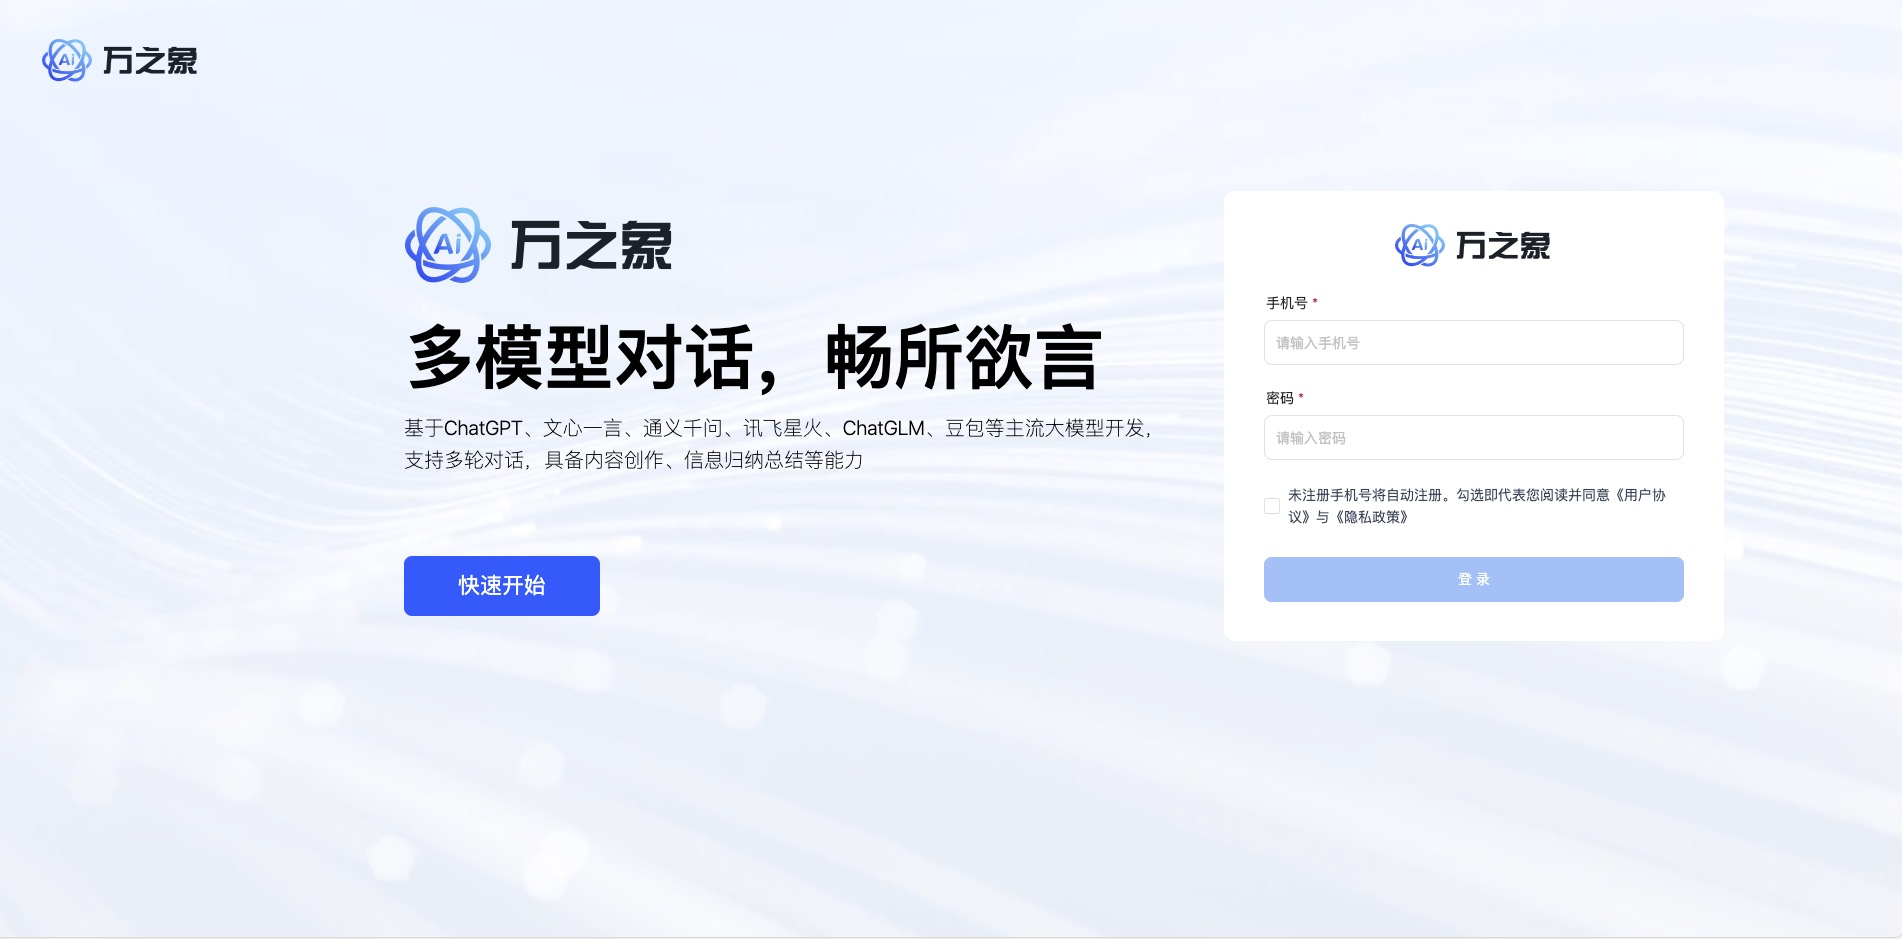
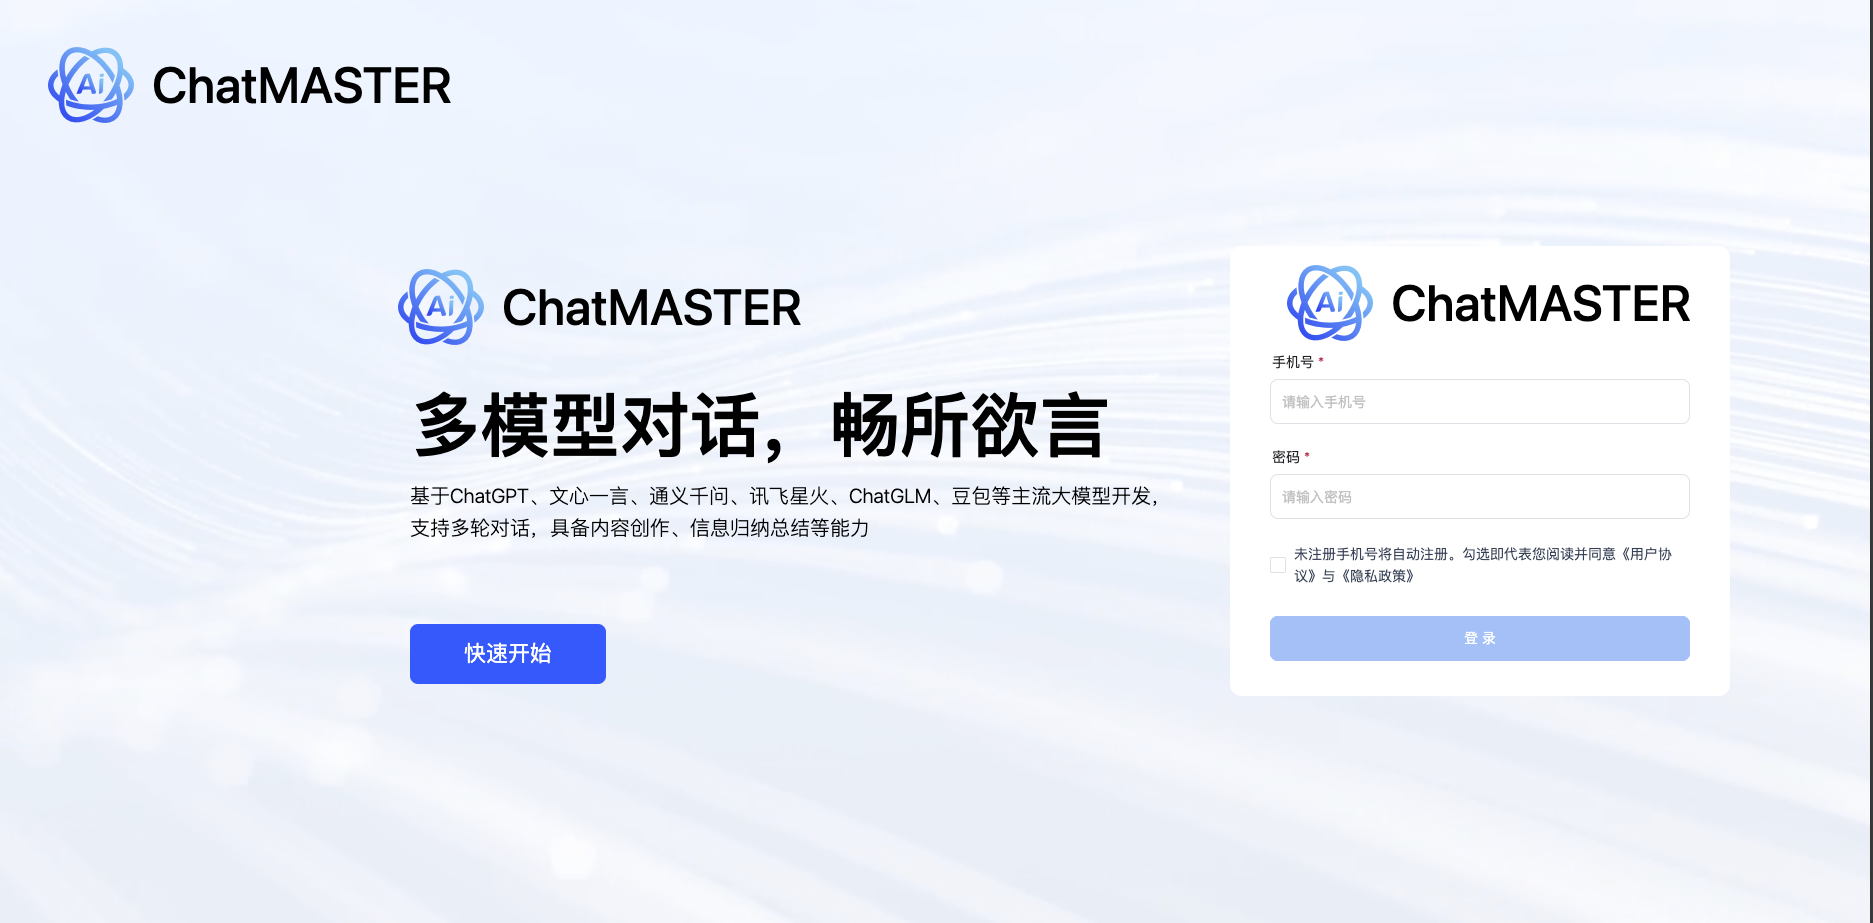
[feat] 移动端兼容，增加演示地址

diff --git a/src/main/java/com/master/chat/controller/app/AppApiController.java b/src/main/java/com/master/chat/controller/app/AppApiController.java
@@ -4,17 +4,6 @@ import com.master.chat.comm.constant.RedisConstants;
 import com.master.chat.comm.constant.SmsConstant;
 import com.master.chat.comm.util.AliyunSMSUtil;
 import com.master.chat.comm.util.RedisUtils;
-import com.master.chat.gpt.constant.BaseConfigConstant;
-import com.master.chat.gpt.pojo.command.GptCommand;
-import com.master.chat.gpt.pojo.vo.AgreementVO;
-import com.master.chat.gpt.pojo.vo.AppConfigVO;
-import com.master.chat.gpt.pojo.vo.AssistantVO;
-import com.master.chat.gpt.service.*;
-import com.master.chat.sys.pojo.dto.config.AppInfoDTO;
-import com.master.chat.sys.pojo.dto.config.BaseInfoDTO;
-import com.master.chat.sys.pojo.dto.config.ExtraInfoDTO;
-import com.master.chat.sys.pojo.dto.config.WxInfoDTO;
-import com.master.chat.sys.service.IBaseConfigService;
 import com.master.chat.common.api.Query;
 import com.master.chat.common.api.ResponseInfo;
 import com.master.chat.common.enums.IntEnum;
@@ -22,6 +11,15 @@ import com.master.chat.common.enums.ResponseEnum;
 import com.master.chat.common.enums.StatusEnum;
 import com.master.chat.common.utils.RandomUtil;
 import com.master.chat.common.validator.ValidatorUtil;
+import com.master.chat.common.validator.base.BaseAssert;
+import com.master.chat.gpt.constant.BaseConfigConstant;
+import com.master.chat.gpt.pojo.command.GptCommand;
+import com.master.chat.gpt.pojo.vo.AgreementVO;
+import com.master.chat.gpt.pojo.vo.AppConfigVO;
+import com.master.chat.gpt.service.*;
+import com.master.chat.sys.pojo.dto.config.AppInfoDTO;
+import com.master.chat.sys.pojo.dto.config.BaseInfoDTO;
+import com.master.chat.sys.service.IBaseConfigService;
 import org.springframework.beans.factory.annotation.Autowired;
 import org.springframework.web.bind.annotation.*;
 
@@ -91,18 +89,8 @@ public class AppApiController {
     @GetMapping("/home/config")
     public ResponseInfo getHomeConfig() {
         BaseInfoDTO baseInfo = baseConfigService.getBaseConfigByName(BaseConfigConstant.BASE_INFO, BaseInfoDTO.class);
-        WxInfoDTO wxInfo = baseConfigService.getBaseConfigByName(BaseConfigConstant.WX_INFO, WxInfoDTO.class);
         AppInfoDTO appInfo = baseConfigService.getBaseConfigByName(BaseConfigConstant.APP_INFO, AppInfoDTO.class);
-        ExtraInfoDTO extraInfo = baseConfigService.getBaseConfigByName(BaseConfigConstant.EXTRA_INFO, ExtraInfoDTO.class);
-        Query query = new Query();
-        query.put("status", StatusEnum.ENABLED.getValue());
-        List<AssistantVO> assistants = assistantService.listAssistant(query).getData();
-        AssistantVO assistant = assistants.stream().filter(v -> StatusEnum.ENABLED.getValue().equals(v.getMainModel())).findFirst().get();
-        AppConfigVO appConfig = AppConfigVO.builder()
-                .baseInfo(baseInfo).extraInfo(extraInfo)
-                .appInfo(appInfo).wxInfo(wxInfo)
-                .mainAssistant(assistant).assistants(assistants)
-                .build();
+        AppConfigVO appConfig = AppConfigVO.builder().baseInfo(baseInfo).appInfo(appInfo).build();
         return ResponseInfo.success(appConfig);
     }
 
@@ -119,22 +107,10 @@ public class AppApiController {
         query.put("type", type);
         query.put("status", StatusEnum.ENABLED.getValue());
         List<AgreementVO> contents = contentService.listContent(query).getData();
-        if (ValidatorUtil.isNull(contents)) {
+        if (ValidatorUtil.isNullIncludeArray(contents)) {
             return ResponseInfo.success();
         }
         return ResponseInfo.success(contents.get(0));
-    }
-
-    /**
-     * 获取内容详情
-     *
-     * @author: Yang
-     * @date: 2023/1/9
-     * @version: 1.0.0
-     */
-    @GetMapping("/content/detail/{id}")
-    public ResponseInfo getContent(@PathVariable("id") Long id) {
-        return contentService.getContentById(id);
     }
 
     /**
@@ -150,6 +126,18 @@ public class AppApiController {
         query.put("type", type);
         query.put("status", StatusEnum.ENABLED.getValue());
         return contentService.listContent(query);
+    }
+
+    /**
+     * 获取内容详情
+     *
+     * @author: Yang
+     * @date: 2023/1/9
+     * @version: 1.0.0
+     */
+    @GetMapping("/content/detail/{id}")
+    public ResponseInfo getContent(@PathVariable("id") Long id) {
+        return contentService.getContentById(id);
     }
 
     /**
@@ -188,10 +176,10 @@ public class AppApiController {
      * @version: 1.0.0
      */
     @GetMapping("/assistant/random")
-    public ResponseInfo listAssistant() {
+    public ResponseInfo listAssistant(@RequestParam(required = false) Map map) {
         Query query = new Query();
         query.put("status", StatusEnum.ENABLED.getValue());
-        query.put("size", 3);
+        query.put("size", ValidatorUtil.isNotNull(map.get("size")) ? BaseAssert.getParamInt(map, "size") : 3);
         return assistantService.listAssistantByApp(new Query(query));
     }
 

diff --git a/src/main/java/com/master/chat/gpt/service/impl/UserServiceImpl.java b/src/main/java/com/master/chat/gpt/service/impl/UserServiceImpl.java
@@ -1,12 +1,20 @@
 package com.master.chat.gpt.service.impl;
 
 import cn.hutool.core.lang.UUID;
-import com.alibaba.fastjson.JSONObject;
 import com.baomidou.mybatisplus.core.conditions.query.LambdaQueryWrapper;
 import com.baomidou.mybatisplus.core.metadata.IPage;
 import com.baomidou.mybatisplus.extension.plugins.pagination.Page;
 import com.baomidou.mybatisplus.extension.service.impl.ServiceImpl;
+import com.master.chat.common.api.IPageInfo;
+import com.master.chat.common.api.Query;
+import com.master.chat.common.api.ResponseInfo;
+import com.master.chat.common.enums.ResponseEnum;
+import com.master.chat.common.exception.ErrorException;
 import com.master.chat.common.exception.ProhibitVisitException;
+import com.master.chat.common.utils.CommonUtil;
+import com.master.chat.common.utils.DozerUtil;
+import com.master.chat.common.utils.RandomUtil;
+import com.master.chat.common.validator.ValidatorUtil;
 import com.master.chat.framework.security.JWTPasswordEncoder;
 import com.master.chat.gpt.constant.BaseConfigConstant;
 import com.master.chat.gpt.enums.UserTypeEnum;
@@ -14,19 +22,10 @@ import com.master.chat.gpt.mapper.UserMapper;
 import com.master.chat.gpt.pojo.command.UserCommand;
 import com.master.chat.gpt.pojo.entity.User;
 import com.master.chat.gpt.pojo.vo.UserVO;
-import com.master.chat.sys.pojo.dto.config.AppInfoDTO;
-import com.master.chat.sys.pojo.dto.config.BaseInfoDTO;
-import com.master.chat.sys.service.IBaseConfigService;
 import com.master.chat.gpt.service.IUserService;
 import com.master.chat.sys.pojo.command.SysUserPasswordCommand;
-import com.master.chat.common.api.IPageInfo;
-import com.master.chat.common.api.Query;
-import com.master.chat.common.api.ResponseInfo;
-import com.master.chat.common.enums.ResponseEnum;
-import com.master.chat.common.exception.ErrorException;
-import com.master.chat.common.utils.DozerUtil;
-import com.master.chat.common.utils.RandomUtil;
-import com.master.chat.common.validator.ValidatorUtil;
+import com.master.chat.sys.pojo.dto.config.AppInfoDTO;
+import com.master.chat.sys.service.IBaseConfigService;
 import org.springframework.beans.factory.annotation.Autowired;
 import org.springframework.stereotype.Service;
 import org.springframework.transaction.annotation.Transactional;
@@ -66,12 +65,15 @@ public class UserServiceImpl extends ServiceImpl<UserMapper, User> implements IU
     @Override
     public ResponseInfo<IPageInfo<UserVO>> pageUser(Query query) {
         IPage<UserVO> iPage = userMapper.pageUser(new Page<>(query.getCurrent(), query.getSize()), query);
+        iPage.getRecords().stream().forEach(v -> v.setTel(CommonUtil.mobileEncrypt(v.getTel())));
         return ResponseInfo.success(new IPageInfo(iPage.getCurrent(), iPage.getSize(), iPage.getTotal(), iPage.getRecords()));
     }
 
     @Override
     public ResponseInfo<List<UserVO>> listUser(Query query) {
-        return ResponseInfo.success(userMapper.listUser(query));
+        List<UserVO> userVOS = userMapper.listUser(query);
+        userVOS.stream().forEach(v -> v.setTel(CommonUtil.mobileEncrypt(v.getTel())));
+        return ResponseInfo.success(userVOS);
     }
 
     @Override

diff --git a/src/main/java/com/master/chat/sys/service/impl/ResourceServiceImpl.java b/src/main/java/com/master/chat/sys/service/impl/ResourceServiceImpl.java
@@ -3,16 +3,6 @@ package com.master.chat.sys.service.impl;
 import com.baomidou.mybatisplus.core.conditions.query.QueryWrapper;
 import com.baomidou.mybatisplus.extension.service.impl.ServiceImpl;
 import com.master.chat.comm.constant.ResourceConstants;
-import com.master.chat.sys.mapper.ResourceMapper;
-import com.master.chat.sys.mapper.RoleResourceMapper;
-import com.master.chat.sys.pojo.command.ResourceCommand;
-import com.master.chat.sys.pojo.dto.SysUserRolesDTO;
-import com.master.chat.sys.pojo.entity.Resource;
-import com.master.chat.sys.pojo.vo.MetaVO;
-import com.master.chat.sys.pojo.vo.ResourceVO;
-import com.master.chat.sys.pojo.vo.RouterVO;
-import com.master.chat.sys.service.IResourceService;
-import com.master.chat.sys.service.ISysUserRoleService;
 import com.master.chat.common.api.QueryDTO;
 import com.master.chat.common.api.ResponseInfo;
 import com.master.chat.common.constant.HttpConstant;
@@ -25,6 +15,16 @@ import com.master.chat.common.utils.DozerUtil;
 import com.master.chat.common.utils.StringUtil;
 import com.master.chat.common.utils.TreeUtil;
 import com.master.chat.common.validator.ValidatorUtil;
+import com.master.chat.sys.mapper.ResourceMapper;
+import com.master.chat.sys.mapper.RoleResourceMapper;
+import com.master.chat.sys.pojo.command.ResourceCommand;
+import com.master.chat.sys.pojo.dto.SysUserRolesDTO;
+import com.master.chat.sys.pojo.entity.Resource;
+import com.master.chat.sys.pojo.vo.MetaVO;
+import com.master.chat.sys.pojo.vo.ResourceVO;
+import com.master.chat.sys.pojo.vo.RouterVO;
+import com.master.chat.sys.service.IResourceService;
+import com.master.chat.sys.service.ISysUserRoleService;
 import org.apache.commons.lang3.StringUtils;
 import org.springframework.beans.factory.annotation.Autowired;
 import org.springframework.stereotype.Service;

diff --git a/src/main/java/com/master/chat/sys/service/impl/SysUserServiceImpl.java b/src/main/java/com/master/chat/sys/service/impl/SysUserServiceImpl.java
@@ -170,9 +170,6 @@ public class SysUserServiceImpl extends ServiceImpl<SysUserMapper, SysUser> impl
         DozerUtil.convertor(command, sysUser);
         sysUser.setUpdateUser(command.getOperater());
         sysUserMapper.updateById(sysUser);
-        if (ADMIN.equals(sysUser.getUsername())) {
-            return ResponseInfo.success();
-        }
         saveUserInfo(command, sysUser.getId());
         return ResponseInfo.success();
     }

diff --git a/src/main/java/com/master/chat/sys/pojo/dto/config/BaseInfoDTO.java b/src/main/java/com/master/chat/sys/pojo/dto/config/BaseInfoDTO.java
@@ -29,6 +29,11 @@ public class BaseInfoDTO implements Serializable {
     private String siteTitle;
 
     /**
+     * 站点logo
+     */
+    private String siteLogo;
+
+    /**
      * 代理方案 1 环境代理 2 方向代理 3 直接代理
      */
     private Integer proxyType;
